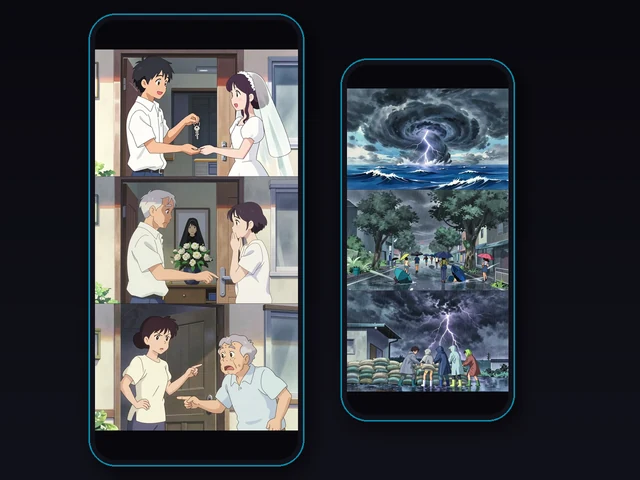
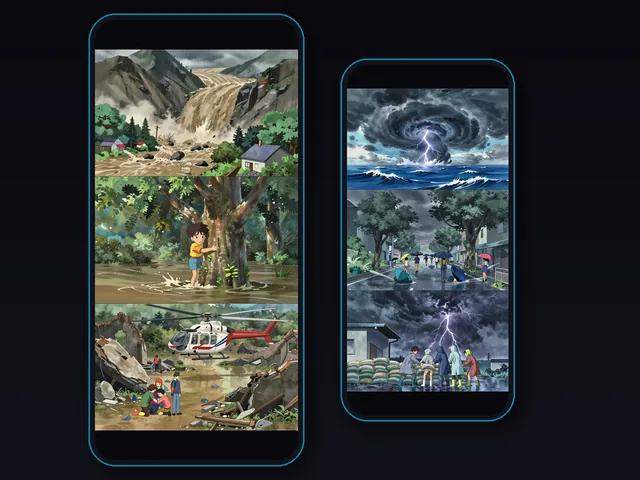
Fix portfolio lightbox arrows and refresh case-study artwork.
Reposition WBC prev/next controls inside the media frame, tighten landscape dialog height, and swap in the Nepal comic and Pool C / star assets.

Changed region(s): [[0.125, 0.0938, 0.4688, 0.9062]]

diff --git a/src/App.js b/src/App.js
@@ -84,11 +84,11 @@ export default function App() {
         srcSet: `${newstocomicCover640} 640w, ${newstocomicCover1280} 1280w`,
       },
       links: [{ label: '查看專案', url: 'https://www.news-to-comic.xyz/' }],
-      alt: '新聞漫畫專案畫面：兩支手機並排展示由新聞自動生成的三格漫畫',
+      alt: '新聞漫畫專案畫面：兩支手機展示由新聞自動生成的三格漫畫',
       lightbox: [
         {
           src: newstocomicFull,
-          alt: '新聞漫畫完整畫面：由新聞自動生成的三格漫畫',
+          alt: '由尼泊爾洪災新聞自動生成的三格漫畫',
         },
       ],
     },
@@ -133,10 +133,16 @@ export default function App() {
         srcSet: `${wbcCover640} 640w, ${wbcCover1280} 1280w`,
       },
       links: [{ label: '查看專案', url: 'https://www.wbc-tw.club/' }],
-      alt: 'WBC 2026 台灣情報站網站首頁畫面',
+      alt: 'WBC 2026 台灣情報站畫面：Pool C 五隊戰力雷達比較',
       lightbox: [
-        { src: wbcFull1, alt: 'WBC 2026 台灣情報站首頁畫面' },
-        { src: wbcFull2, alt: 'WBC 2026 台灣情報站中華台北頁畫面' },
+        {
+          src: wbcFull1,
+          alt: 'Pool C 五隊戰力雷達圖，比較日本、台灣、南韓、澳洲、捷克六項能力',
+        },
+        {
+          src: wbcFull2,
+          alt: '焦點球星頁面：全壘打王、打擊王、三振王排行',
+        },
       ],
     },
   ];
@@ -750,7 +756,11 @@ export default function App() {
               role="dialog"
               aria-modal="true"
               aria-label={`${lightboxProject.title}完整畫面`}
-              className="relative w-full h-full md:w-full md:max-w-5xl md:h-[90vh] bg-tech-darker border border-tech-cyan/30 md:rounded-lg shadow-2xl flex flex-col overflow-hidden"
+              className={`relative w-full md:w-full md:max-w-5xl bg-tech-darker border border-tech-cyan/30 md:rounded-lg shadow-2xl flex flex-col overflow-hidden ${
+                lightboxProject.lightbox.length === 2
+                  ? 'h-auto max-h-[100dvh] md:max-h-[90dvh]'
+                  : 'h-full md:h-[90vh]'
+              }`}
             >
               <div className="flex items-center justify-between gap-4 px-4 py-3 border-b border-tech-cyan/20 shrink-0">
                 <p className="text-tech-cyan font-semibold truncate">{lightboxProject.title}</p>
@@ -765,8 +775,8 @@ export default function App() {
                 </button>
               </div>
 
-              <div className="relative flex-1 min-h-0 overflow-hidden">
-                {lightboxProject.lightbox.length === 1 && (
+              {lightboxProject.lightbox.length === 1 && (
+                <div className="relative flex-1 min-h-0 overflow-hidden">
                   <div className="h-full overflow-y-auto p-4">
                     <img
                       src={lightboxProject.lightbox[0].src}
@@ -774,9 +784,11 @@ export default function App() {
                       className="block mx-auto max-w-full h-auto"
                     />
                   </div>
-                )}
+                </div>
+              )}
 
-                {lightboxProject.lightbox.length > 2 && (
+              {lightboxProject.lightbox.length > 2 && (
+                <div className="relative flex-1 min-h-0 overflow-hidden">
                   <div className="h-full overflow-x-auto snap-x snap-mandatory flex gap-4 p-4 items-center">
                     {lightboxProject.lightbox.map((image) => (
                       <div
@@ -791,13 +803,20 @@ export default function App() {
                       </div>
                     ))}
                   </div>
-                )}
+                </div>
+              )}
 
-                {lightboxProject.lightbox.length === 2 && (
-                  <div className="h-full flex items-center justify-center gap-2 p-4">
+              {lightboxProject.lightbox.length === 2 && (
+                <>
+                  <div className="relative p-3 md:p-4">
+                    <img
+                      src={lightboxProject.lightbox[lightboxIndex].src}
+                      alt={lightboxProject.lightbox[lightboxIndex].alt}
+                      className="block mx-auto max-w-full h-auto"
+                    />
                     <button
                       type="button"
-                      className="shrink-0 text-tech-cyan hover:text-tech-purple p-3 rounded focus:outline-none focus-visible:ring-2 focus-visible:ring-tech-cyan"
+                      className="hidden md:flex absolute left-2 top-1/2 -translate-y-1/2 z-10 w-11 h-11 items-center justify-center rounded-full bg-tech-dark/70 backdrop-blur text-tech-cyan hover:text-tech-purple hover:bg-tech-dark/90 focus:outline-none focus-visible:ring-2 focus-visible:ring-tech-cyan focus-visible:ring-offset-2 focus-visible:ring-offset-tech-darker"
                       aria-label="上一張"
                       onClick={() =>
                         setLightboxIndex(
@@ -807,16 +826,11 @@ export default function App() {
                         )
                       }
                     >
-                      <FaChevronLeft className="text-2xl" aria-hidden="true" />
+                      <FaChevronLeft className="text-xl" aria-hidden="true" />
                     </button>
-                    <img
-                      src={lightboxProject.lightbox[lightboxIndex].src}
-                      alt={lightboxProject.lightbox[lightboxIndex].alt}
-                      className="max-w-full max-h-full object-contain"
-                    />
                     <button
                       type="button"
-                      className="shrink-0 text-tech-cyan hover:text-tech-purple p-3 rounded focus:outline-none focus-visible:ring-2 focus-visible:ring-tech-cyan"
+                      className="hidden md:flex absolute right-2 top-1/2 -translate-y-1/2 z-10 w-11 h-11 items-center justify-center rounded-full bg-tech-dark/70 backdrop-blur text-tech-cyan hover:text-tech-purple hover:bg-tech-dark/90 focus:outline-none focus-visible:ring-2 focus-visible:ring-tech-cyan focus-visible:ring-offset-2 focus-visible:ring-offset-tech-darker"
                       aria-label="下一張"
                       onClick={() =>
                         setLightboxIndex(
@@ -824,16 +838,46 @@ export default function App() {
                         )
                       }
                     >
-                      <FaChevronRight className="text-2xl" aria-hidden="true" />
+                      <FaChevronRight className="text-xl" aria-hidden="true" />
                     </button>
                   </div>
-                )}
-              </div>
 
-              {lightboxProject.lightbox.length === 2 && (
-                <p className="text-center text-tech-text/70 text-sm pb-3">
-                  {lightboxIndex + 1} / {lightboxProject.lightbox.length}
-                </p>
+                  <div className="md:hidden flex items-center justify-center gap-6 px-4 py-3 border-t border-tech-cyan/20 shrink-0">
+                    <button
+                      type="button"
+                      className="flex w-11 h-11 items-center justify-center rounded-full bg-tech-dark/70 backdrop-blur text-tech-cyan hover:text-tech-purple hover:bg-tech-dark/90 focus:outline-none focus-visible:ring-2 focus-visible:ring-tech-cyan"
+                      aria-label="上一張"
+                      onClick={() =>
+                        setLightboxIndex(
+                          (current) =>
+                            (current - 1 + lightboxProject.lightbox.length) %
+                            lightboxProject.lightbox.length
+                        )
+                      }
+                    >
+                      <FaChevronLeft className="text-xl" aria-hidden="true" />
+                    </button>
+                    <span className="text-tech-text/80 text-sm tabular-nums min-w-[3rem] text-center">
+                      {lightboxIndex + 1} / {lightboxProject.lightbox.length}
+                    </span>
+                    <button
+                      type="button"
+                      className="flex w-11 h-11 items-center justify-center rounded-full bg-tech-dark/70 backdrop-blur text-tech-cyan hover:text-tech-purple hover:bg-tech-dark/90 focus:outline-none focus-visible:ring-2 focus-visible:ring-tech-cyan"
+                      aria-label="下一張"
+                      onClick={() =>
+                        setLightboxIndex(
+                          (current) => (current + 1) % lightboxProject.lightbox.length
+                        )
+                      }
+                    >
+                      <FaChevronRight className="text-xl" aria-hidden="true" />
+                    </button>
+                  </div>
+
+                  <p className="hidden md:block text-center text-tech-text/70 text-sm pb-3 shrink-0">
+                    {lightboxIndex + 1} / {lightboxProject.lightbox.length}
+                  </p>
+                </>
               )}
             </div>
           </div>,
